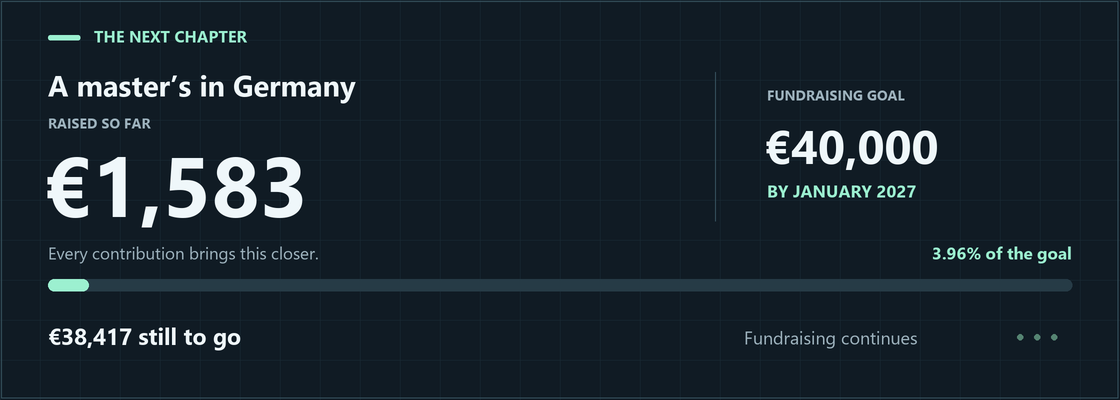
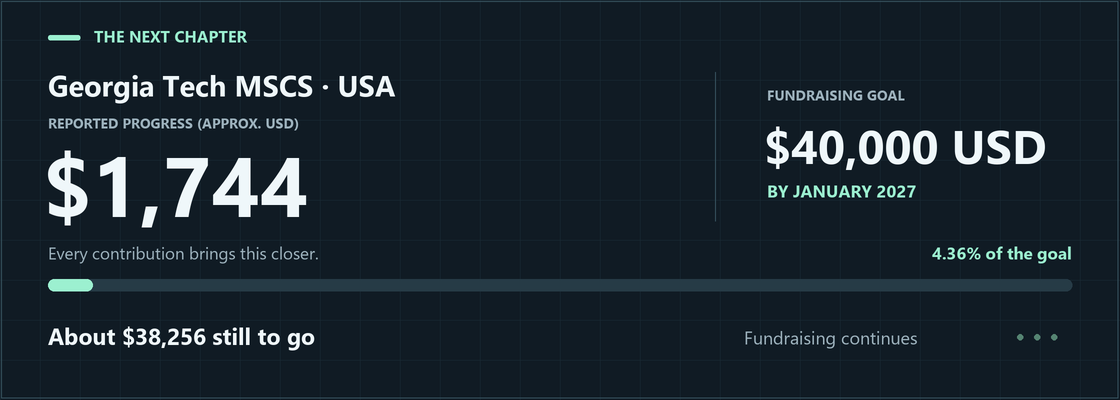
Update profile fundraiser for Georgia Tech MSCS

diff --git a/README.md b/README.md
@@ -83,7 +83,7 @@ Public pull requests in other people’s repositories. Merged cards show contrib
 <a href="https://paypal.me/OikantikBasu">
   <picture>
     <source media="(prefers-reduced-motion: reduce)" srcset="./assets/education-progress.png" />
-    <img src="./assets/education-progress.gif" width="100%" alt="€1,583 raised toward my €40,000 master's goal in USA: 3.96% funded, €38,417 remaining. Fundraising continues until January 2027." />
+    <img src="./assets/education-progress.gif" width="100%" alt="Georgia Tech MSCS fundraiser: approximately US$1,744 toward a US$40,000 goal, 4.36% funded, with about US$38,256 remaining. Goal date: January 2027." />
   </picture>
 </a>
 
@@ -91,11 +91,11 @@ Public pull requests in other people’s repositories. Merged cards show contrib
   <a href="https://paypal.me/OikantikBasu"><img src="./assets/paypal-support-button.svg" width="280" alt="Support via PayPal — opens Oikantik Basu's PayPal page" /></a>
 </p>
 
-**€1,583 raised of €40,000 · 3.96% funded · €38,417 remaining.** Updated 16 November 2026.
+**About US$1,744 toward US$40,000 · 4.36% funded · about US$38,256 to go.** The 16 November 2026 reported total was converted using the [ECB reference rate for that date](https://www.ecb.europa.eu/stats/exchange/eurofxref/shared/pdf/2026/11/20261116.pdf) and rounded to the nearest U.S. dollar.
 
-I’m based in India and aiming to raise **€40,000 by January 2027** to support applications and a master’s programme in USA. I plan to apply in **January 2027 to several German universities**; my final university will depend on admission offers.
+I’m based in India and aiming to raise **US$40,000 by January 2027** to help cover application and study costs in the USA. I plan to apply in **January 2027** to the [Master of Science in Computer Science (MSCS) program at the Georgia Institute of Technology](https://www.cc.gatech.edu/degree-programs/master-science-computer-science).
 
-I’ve completed **dMAT and APS**, with **IELTS and GRE still ahead**. I contribute to open-source projects on GitHub and take part in Kaggle competitions.
+I’ve completed **dMAT**, with **IELTS and GRE still ahead**. I contribute to open-source projects on GitHub and take part in Kaggle competitions.
 
 [**Support via PayPal →**](https://paypal.me/OikantikBasu)
 
